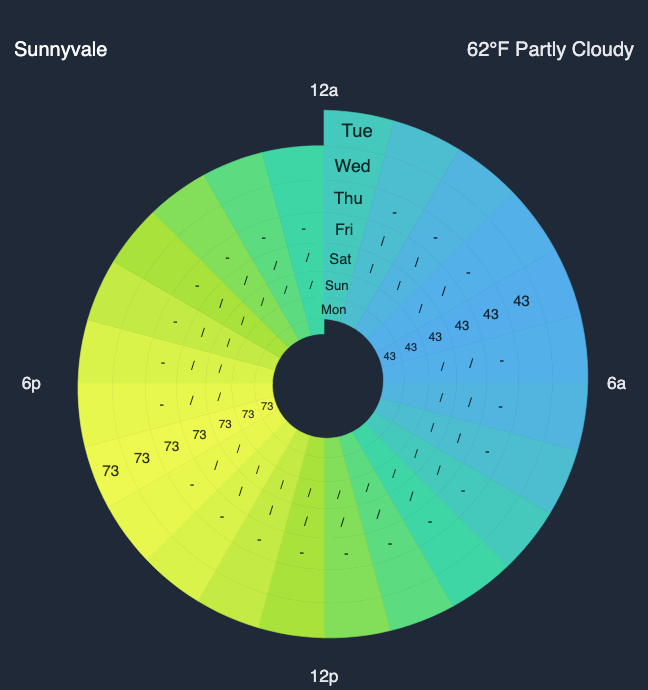
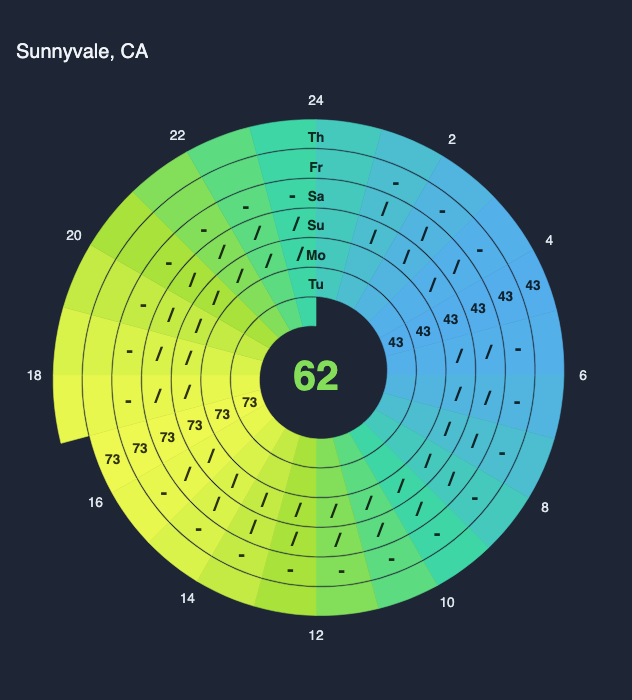
Docs: rewrite spiral section + preview for the current design
- README spiral section leads with the confidence-as-screen-space
  philosophy; describes start-at-now, constant thickness, 24h clock ring,
  centre temperature, two-letter days, and spiral_gap. New screenshot.
- Preview (index.html): "dashboard card" wording, a Spiral Layout
  showcase section (mosaic / turbo / °C) with the philosophy blurb.

diff --git a/index.html b/index.html
@@ -133,9 +133,10 @@
 <div class="page-header">
   <h1>Weather Mosaic Card</h1>
   <p>
-    A <a href="https://www.home-assistant.io/" style="color:#6b9fff">Home Assistant</a> Lovelace card
-    that displays a 7-day hourly weather forecast as a color-coded grid.
-    One row per day, one cell per hour — temperature encoded as color so you can spot patterns at a glance.
+    A <a href="https://www.home-assistant.io/" style="color:#6b9fff">Home Assistant</a> dashboard card
+    that displays a 7-day hourly weather forecast as a color-coded grid — one row per day,
+    one cell per hour, temperature encoded as color so you can spot patterns at a glance.
+    Or wind it into a <strong style="color:#c7d0dc">spiral</strong> that gives near-term hours more space than distant ones.
   </p>
   <div class="badges">
     <a href="https://github.com/whalleyms/weather-mosaic-card/releases/latest">
@@ -151,6 +152,18 @@
       <img src="https://img.shields.io/badge/HACS-Custom-41BDF5?style=flat-square" alt="HACS">
     </a>
   </div>
+</div>
+
+<!-- Spiral layout showcase -->
+<div class="section">
+  <p class="section-label">Spiral Layout</p>
+  <p style="color:#9ca3af;font-size:0.95rem;line-height:1.6;max-width:760px;margin:-4px 0 20px;">
+    The same forecast wound into a spiral. It starts at <em>now</em> on the outer edge and winds inward
+    into the future — and because each turn inward is shorter, days further ahead take up less space.
+    Screen real estate scales with forecast confidence: the near term is large and prominent, the far
+    edge small and quiet. Midnight is always at 12 o'clock and the current temperature sits in the center.
+  </p>
+  <div class="cards" id="spiral"></div>
 </div>
 
 <!-- Color scale showcase -->
@@ -269,6 +282,34 @@ scales.forEach(({ scale, label }) => {
     label
   );
 });
+
+// ---------------------------------------------------------------------------
+// Spiral layout — confidence encoded as screen real estate
+// ---------------------------------------------------------------------------
+addCard('spiral',
+  { entity: 'weather.spiral_mosaic', title: 'Sunnyvale, CA', layout: 'spiral', time_format: '12' },
+  sunnyvaleHass('weather.spiral_mosaic'),
+  'Now on the outer edge, winding inward into the future — distant days take up less space'
+);
+
+addCard('spiral',
+  { entity: 'weather.spiral_denver', title: 'Denver, CO', layout: 'spiral', color_scale: 'turbo', time_format: '12' },
+  makeMockHass('weather.spiral_denver', 'sunny',
+    { temperature: 52, latitude: 39.74, longitude: -104.98, timezone: 'America/Denver' },
+    { baseTemp: 55, swing: 22, tzOffsetHours: -6, trend: -2, wave: 8,
+      conditions: ['sunny','sunny','partlycloudy','snowy','snowy-rainy','cloudy','sunny'] }),
+  'Turbo scale — big day/night swings wind inward as bold color bands'
+);
+
+addCard('spiral',
+  { entity: 'weather.spiral_london', title: 'London, UK — °C', layout: 'spiral',
+    temperature_unit: 'C', color_scale: 'blue_red', time_format: '24' },
+  makeMockHass('weather.spiral_london', 'cloudy',
+    { temperature: 12, temperature_unit: '°C', latitude: 51.51, longitude: -0.13, timezone: 'Europe/London' },
+    { baseTemp: 12, swing: 6, tzOffsetHours: 1, trend: -1, wave: 3,
+      conditions: ['cloudy','rainy','partlycloudy','cloudy','rainy','rainy','cloudy'] }),
+  'Celsius — center temperature and forecast in °C, blue_red scale'
+);
 
 // ---------------------------------------------------------------------------
 // Different climates — full 7 days

diff --git a/README.md b/README.md
@@ -31,6 +31,8 @@ The design is inspired by Edward Tufte's principle of maximizing the data-to-ink
 
 Each cell represents one hour of one day. Cell color encodes temperature using your choice of color scale. Precipitation probability is shown as subtle markers within cells. Daily high and low temperatures are labeled directly on their peak cells. The card scales to fit any dashboard column width.
 
+Prefer a radial view? The [Spiral Layout](#spiral-layout) winds the same forecast into a spiral that gives near-term hours more space than distant ones — encoding forecast confidence as screen space.
+
 ---
 
 ## Installation
@@ -152,7 +154,7 @@ The header then shows that sensor's reading, followed by the current condition f
 
 ## Spiral Layout
 
-The same forecast, wrapped into a spiral instead of a grid:
+Set `layout: spiral` to wrap the same forecast into a spiral instead of a grid:
 
 ```yaml
 type: custom:weather-mosaic-card
@@ -162,13 +164,13 @@ layout: spiral
 
 <img src="https://raw.githubusercontent.com/whalleyms/weather-mosaic-card/main/assets/weather_mosaic_spiral.png" alt="Weather Mosaic Card - spiral layout" width="520">
 
-Each full turn is one 24-hour day. Because a turn is exactly 24 hours, every hour always falls at the same angle — **midnight sits at 12 o'clock** on every ring — so the same hour on successive days lines up radially. Those radial lines are the polar equivalent of the grid's columns, and the cells stay edge to edge with no gaps, exactly like the grid.
+**Why a spiral?** A forecast is most trustworthy right now and least trustworthy a week out — but a grid gives every hour the same amount of space, quietly implying every hour is equally certain. The spiral encodes that confidence as screen real estate. It begins at the current hour on the outer edge, where the turns are longest and each hour gets the most room, and winds **inward into the future**, where the turns grow shorter and each day takes up steadily less area. How much of the display a moment occupies scales with how much you can trust it: the near term is large and prominent, the far edge of the forecast small and quiet.
 
-The spiral winds **inward into the future**: today is the outermost turn, and each following day is a slightly thinner band than the one before it. Combined with the natural loss of circumference toward the center, days further out occupy steadily less area — a deliberate cue that the forecast grows less certain the further ahead you look.
+**How to read it.** One full turn is one 24-hour day. Because a turn is exactly 24 hours, every hour always lands at the same angle — **midnight is at 12 o'clock** — so the same hour on successive days lines up radially, the polar equivalent of the grid's columns. The spiral starts at *now* (a small step in the outer edge marks the current time), so no space is wasted on hours that have already passed. The **current temperature sits in the center**, the even hours are labelled around the rim as a 24-hour clock (24 at the top), and two-letter day names run down from midnight.
 
-Day names sit on each ring at the midnight seam, and the hours are labelled around the outside. Everything else works exactly as it does in the grid — color scales, `custom_color_scale`, precipitation symbols, min/max labels, `days`, and `font_scale` all apply unchanged.
+Everything else works exactly as it does in the grid — color scales, `custom_color_scale`, precipitation symbols, min/max labels, `days`, and `font_scale` all apply unchanged. The thin gap between turns is adjustable with [`spiral_gap`](#advanced-yaml-options) (set it to `0` for a solid disk).
 
-> **Sizing:** the spiral is square, so give the card more height than the grid needs. In a sections dashboard it defaults to a taller footprint; in a masonry dashboard it will simply be a tall card.
+> **Sizing:** the spiral is square, so give the card more height than the wide grid needs. In a sections dashboard it claims a taller footprint automatically; in a masonry dashboard it renders as a tall card.
 
 ---
 
